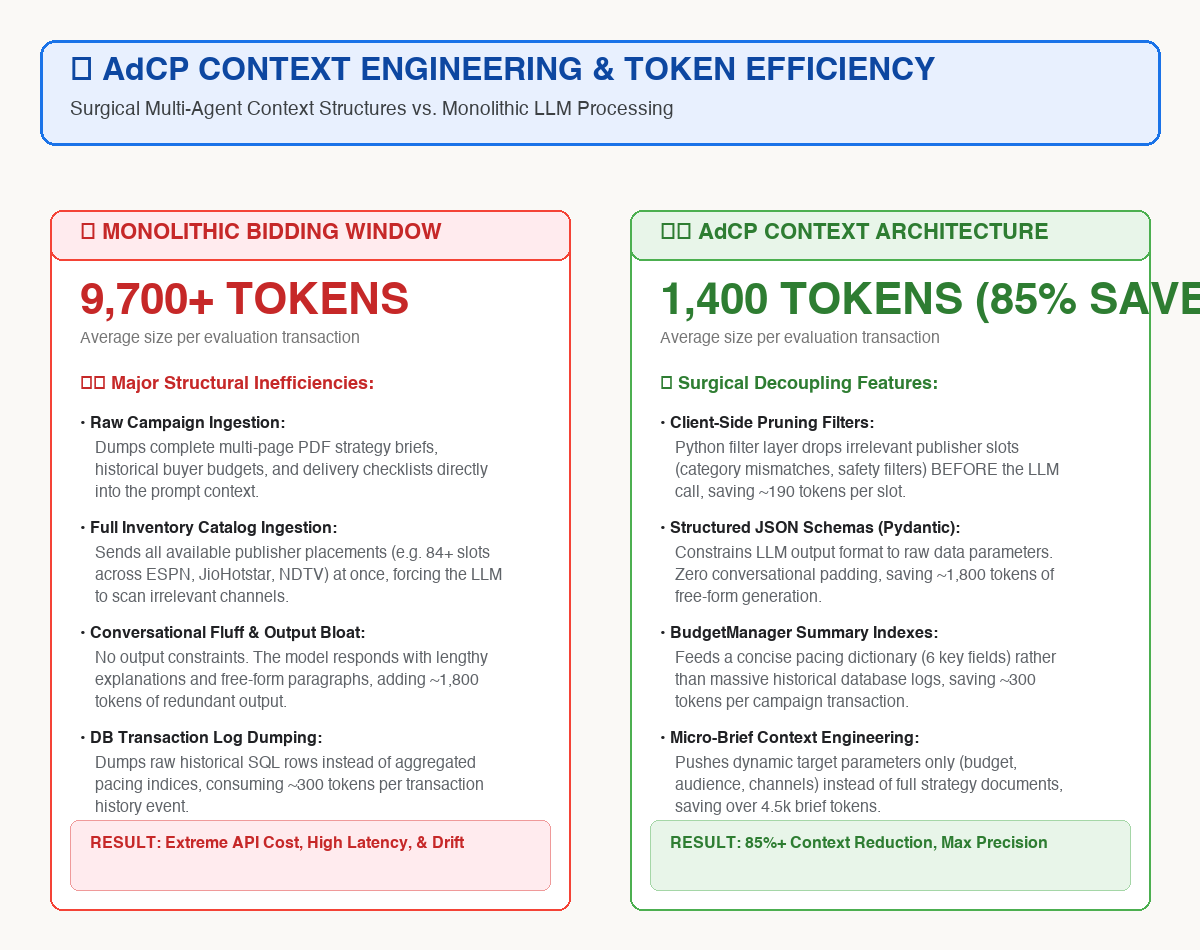
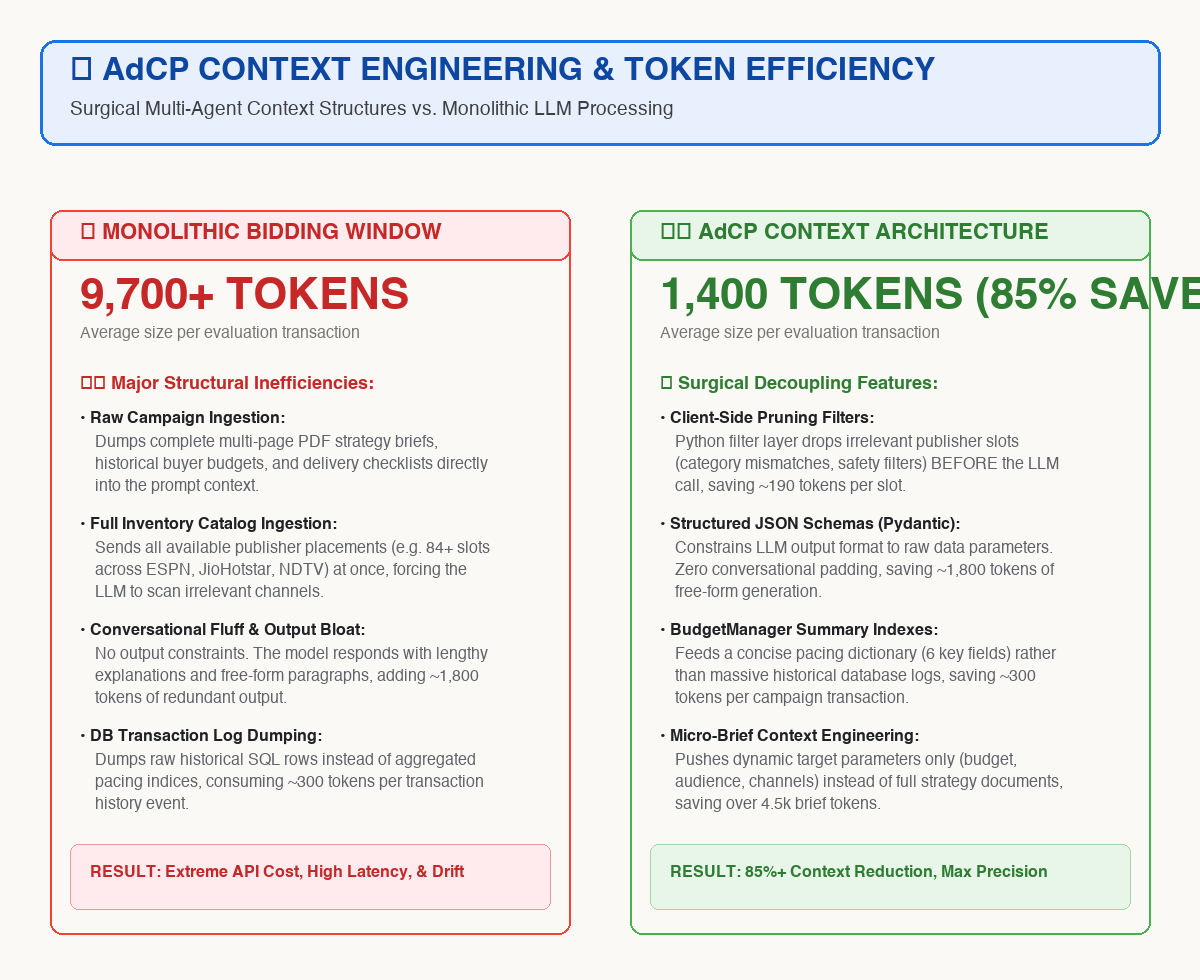
style(docs): dynamically calculate coordinate systems in token efficiency slide to guarantee fit

diff --git a/backend/generate_context_engineering_png.py b/backend/generate_context_engineering_png.py
@@ -24,8 +24,8 @@ def draw_wrapped_text(draw, text, x, y, max_width_pixels, font, fill_color, line
     return current_y
 
 def generate_efficiency_diagram():
-    # Premium Light Layout: 1200 x 950
-    width, height = 1200, 950
+    # Premium Light Layout: 1200 x 980 (increased height for perfect padding)
+    width, height = 1200, 980
     img = Image.new('RGB', (width, height), '#FAF9F6')
     draw = ImageDraw.Draw(img)
     
@@ -52,72 +52,88 @@ def generate_efficiency_diagram():
     draw.text((70, 55), "💡 AdCP CONTEXT ENGINEERING & TOKEN EFFICIENCY", fill="#0D47A1", font=font_title)
     draw.text((70, 100), "Surgical Multi-Agent Context Structures vs. Monolithic LLM Processing", fill="#3C4043", font=font_subtitle)
 
-    # ================= LEFT COLUMN: MONOLITHIC APPROACH =================
-    # Card Border (Red warning styling)
-    draw.rounded_rectangle([50, 210, 570, 910], radius=12, fill="#FFFFFF", outline="#F44336", width=2)
-    # Header Accent Band
+    # We will compute the layout dynamically to guarantee everything fits without overflows
+    left_bullets = [
+        ("• Raw Campaign Ingestion:", "Dumps complete multi-page PDF strategy briefs, historical buyer budgets, and delivery checklists directly into the prompt context."),
+        ("• Full Inventory Catalog Ingestion:", "Sends all available publisher placements (e.g. 84+ slots across ESPN, JioHotstar, NDTV) at once, forcing the LLM to scan irrelevant channels."),
+        ("• Conversational Fluff & Output Bloat:", "No output constraints. The model responds with lengthy explanations and free-form paragraphs, adding ~1,800 tokens of redundant output."),
+        ("• DB Transaction Log Dumping:", "Dumps raw historical SQL rows instead of aggregated pacing indices, consuming ~300 tokens per transaction history event.")
+    ]
+
+    right_bullets = [
+        ("• Client-Side Pruning Filters:", "Python filter layer drops irrelevant publisher slots (category mismatches, safety filters) BEFORE the LLM call, saving ~190 tokens per slot."),
+        ("• Structured JSON Schemas (Pydantic):", "Constrains LLM output format to raw data parameters. Zero conversational padding, saving ~1,800 tokens of free-form generation."),
+        ("• BudgetManager Summary Indexes:", "Feeds a concise pacing dictionary (6 key fields) rather than massive historical database logs, saving ~300 tokens per campaign transaction."),
+        ("• Micro-Brief Context Engineering:", "Pushes dynamic target parameters only (budget, audience, channels) instead of full strategy documents, saving over 4.5k brief tokens.")
+    ]
+
+    # --- Render Column Content First to Compute Height Dynamically ---
+    
+    # Render Left Column Content
+    col_x_left = 80
+    col_width = 410
+    current_y_left = 375
+    
+    # Draw Inefficiencies Title
+    draw.text((col_x_left, current_y_left), "⚠️ Major Structural Inefficiencies:", fill="#C62828", font=font_section)
+    current_y_left += 35
+    
+    for title, desc in left_bullets:
+        draw.text((col_x_left, current_y_left), title, fill="#202124", font=font_body_bold)
+        current_y_left += 24
+        current_y_left = draw_wrapped_text(draw, desc, col_x_left + 15, current_y_left, col_width - 15, font_body, "#5F6368", line_spacing=22)
+        current_y_left += 16
+        
+    # Render Right Column Content
+    col_x_right = 660
+    current_y_right = 375
+    
+    # Draw Optimizations Title
+    draw.text((col_x_right, current_y_right), "⚡ Surgical Decoupling Features:", fill="#2E7D32", font=font_section)
+    current_y_right += 35
+    
+    for title, desc in right_bullets:
+        draw.text((col_x_right, current_y_right), title, fill="#202124", font=font_body_bold)
+        current_y_right += 24
+        current_y_right = draw_wrapped_text(draw, desc, col_x_right + 15, current_y_right, col_width - 15, font_body, "#5F6368", line_spacing=22)
+        current_y_right += 16
+
+    # Determine maximum y-coordinate reached by bullet lists
+    max_bullets_y = max(current_y_left, current_y_right)
+    
+    # --- Draw Results Callout Boxes dynamically below the bullet lists ---
+    result_box_y = max_bullets_y + 10
+    result_box_height = 65
+    
+    # Draw Left Column Result Box
+    draw.rounded_rectangle([70, result_box_y, 550, result_box_y + result_box_height], radius=8, fill="#FFEBEE", outline="#EF9A9A", width=1)
+    draw.text((90, result_box_y + 20), "RESULT: Extreme API Cost, High Latency, & Drift", fill="#C62828", font=font_body_bold)
+    
+    # Draw Right Column Result Box
+    draw.rounded_rectangle([650, result_box_y, 1130, result_box_y + result_box_height], radius=8, fill="#E8F5E9", outline="#A5D6A7", width=1)
+    draw.text((670, result_box_y + 20), "RESULT: 85%+ Context Reduction, Max Precision", fill="#2E7D32", font=font_body_bold)
+    
+    # Determine the dynamic Card Bottom Boundary
+    card_bottom = result_box_y + result_box_height + 25
+
+    # --- Draw Background Card Borders & Headers ---
+    # Draw Left Card Border
+    draw.rounded_rectangle([50, 210, 570, card_bottom], radius=12, fill=None, outline="#F44336", width=2)
+    # Draw Left Header Accent Band
     draw.rounded_rectangle([50, 210, 570, 260], radius=12, fill="#FFEBEE", outline="#F44336", width=2)
     draw.text((80, 222), "❌ MONOLITHIC BIDDING WINDOW", fill="#C62828", font=font_col_header)
+    # Draw Left Stat Callouts
+    draw.text((80, 275), "9,700+ TOKENS", fill="#C62828", font=font_stat)
+    draw.text((80, 325), "Average size per evaluation transaction", fill="#757575", font=font_body)
 
-    # 1. Size Stat Callout
-    draw.text((80, 280), "9,700+ TOKENS", fill="#C62828", font=font_stat)
-    draw.text((80, 330), "Average size per evaluation transaction", fill="#757575", font=font_body)
-
-    # 2. Key Drawbacks Details
-    draw.text((80, 375), "⚠️ Major Structural Inefficiencies:", fill="#C62828", font=font_section)
-    
-    draw.text((80, 415), "• Raw Campaign Ingestion:", fill="#202124", font=font_body_bold)
-    desc_l1 = "Dumps complete multi-page PDF strategy briefs, historical buyer budgets, and delivery checklists directly into the prompt context."
-    draw_wrapped_text(draw, desc_l1, 95, 440, 410, font_body, "#5F6368", line_spacing=22)
-
-    draw.text((80, 520), "• Full Inventory Catalog Ingestion:", fill="#202124", font=font_body_bold)
-    desc_l2 = "Sends all available publisher placements (e.g. 84+ slots across ESPN, JioHotstar, NDTV) at once, forcing the LLM to scan irrelevant channels."
-    draw_wrapped_text(draw, desc_l2, 95, 545, 410, font_body, "#5F6368", line_spacing=22)
-
-    draw.text((80, 625), "• Conversational Fluff & Output Bloat:", fill="#202124", font=font_body_bold)
-    desc_l3 = "No output constraints. The model responds with lengthy explanations and free-form paragraphs, adding ~1,800 tokens of redundant output."
-    draw_wrapped_text(draw, desc_l3, 95, 650, 410, font_body, "#5F6368", line_spacing=22)
-
-    draw.text((80, 730), "• DB Transaction Log Dumping:", fill="#202124", font=font_body_bold)
-    desc_l4 = "Dumps raw historical SQL rows instead of aggregated pacing indices, consuming ~300 tokens per transaction history event."
-    draw_wrapped_text(draw, desc_l4, 95, 755, 410, font_body, "#5F6368", line_spacing=22)
-
-    draw.rounded_rectangle([70, 820, 550, 890], radius=8, fill="#FFEBEE", outline="#EF9A9A", width=1)
-    draw.text((90, 835), "RESULT: Extreme API Cost, High Latency, & Drift", fill="#C62828", font=font_body_bold)
-
-
-    # ================= RIGHT COLUMN: AdCP CONTEXT ENGINEERING =================
-    # Card Border (Green check styling)
-    draw.rounded_rectangle([630, 210, 1150, 910], radius=12, fill="#FFFFFF", outline="#4CAF50", width=2)
-    # Header Accent Band
+    # Draw Right Card Border
+    draw.rounded_rectangle([630, 210, 1150, card_bottom], radius=12, fill=None, outline="#4CAF50", width=2)
+    # Draw Right Header Accent Band
     draw.rounded_rectangle([630, 210, 1150, 260], radius=12, fill="#E8F5E9", outline="#4CAF50", width=2)
     draw.text((660, 222), "✔️ AdCP CONTEXT ARCHITECTURE", fill="#2E7D32", font=font_col_header)
-
-    # 1. Size Stat Callout
-    draw.text((660, 280), "1,400 TOKENS (85% SAVED)", fill="#2E7D32", font=font_stat)
-    draw.text((660, 330), "Average size per evaluation transaction", fill="#757575", font=font_body)
-
-    # 2. Key Optimizations Details
-    draw.text((660, 375), "⚡ Surgical Decoupling Features:", fill="#2E7D32", font=font_section)
-
-    draw.text((660, 415), "• Client-Side Pruning Filters:", fill="#202124", font=font_body_bold)
-    desc_r1 = "Python filter layer drops irrelevant publisher slots (category mismatches, safety filters) BEFORE the LLM call, saving ~190 tokens per slot."
-    draw_wrapped_text(draw, desc_r1, 675, 440, 410, font_body, "#5F6368", line_spacing=22)
-
-    draw.text((660, 520), "• Structured JSON Schemas (Pydantic):", fill="#202124", font=font_body_bold)
-    desc_r2 = "Constrains LLM output format to raw data parameters. Zero conversational padding, saving ~1,800 tokens of free-form generation."
-    draw_wrapped_text(draw, desc_r2, 675, 545, 410, font_body, "#5F6368", line_spacing=22)
-
-    draw.text((660, 625), "• BudgetManager Summary Indexes:", fill="#202124", font=font_body_bold)
-    desc_r3 = "Feeds a concise pacing dictionary (6 key fields) rather than massive historical database logs, saving ~300 tokens per campaign transaction."
-    draw_wrapped_text(draw, desc_r3, 675, 650, 410, font_body, "#5F6368", line_spacing=22)
-
-    draw.text((660, 730), "• Micro-Brief Context Engineering:", fill="#202124", font=font_body_bold)
-    desc_r4 = "Pushes dynamic target parameters only (budget, audience, channels) instead of full strategy documents, saving over 4.5k brief tokens."
-    draw_wrapped_text(draw, desc_r4, 675, 755, 410, font_body, "#5F6368", line_spacing=22)
-
-    draw.rounded_rectangle([650, 820, 1130, 890], radius=8, fill="#E8F5E9", outline="#A5D6A7", width=1)
-    draw.text((670, 835), "RESULT: 85%+ Context Reduction, Max Precision", fill="#2E7D32", font=font_body_bold)
+    # Draw Right Stat Callouts
+    draw.text((660, 275), "1,400 TOKENS (85% SAVED)", fill="#2E7D32", font=font_stat)
+    draw.text((660, 325), "Average size per evaluation transaction", fill="#757575", font=font_body)
 
     # Save to docs folder
     output_path = '/Users/sourabh/Documents/Publishing/AdCP/docs/adcp_context_engineering_token_efficiency.png'